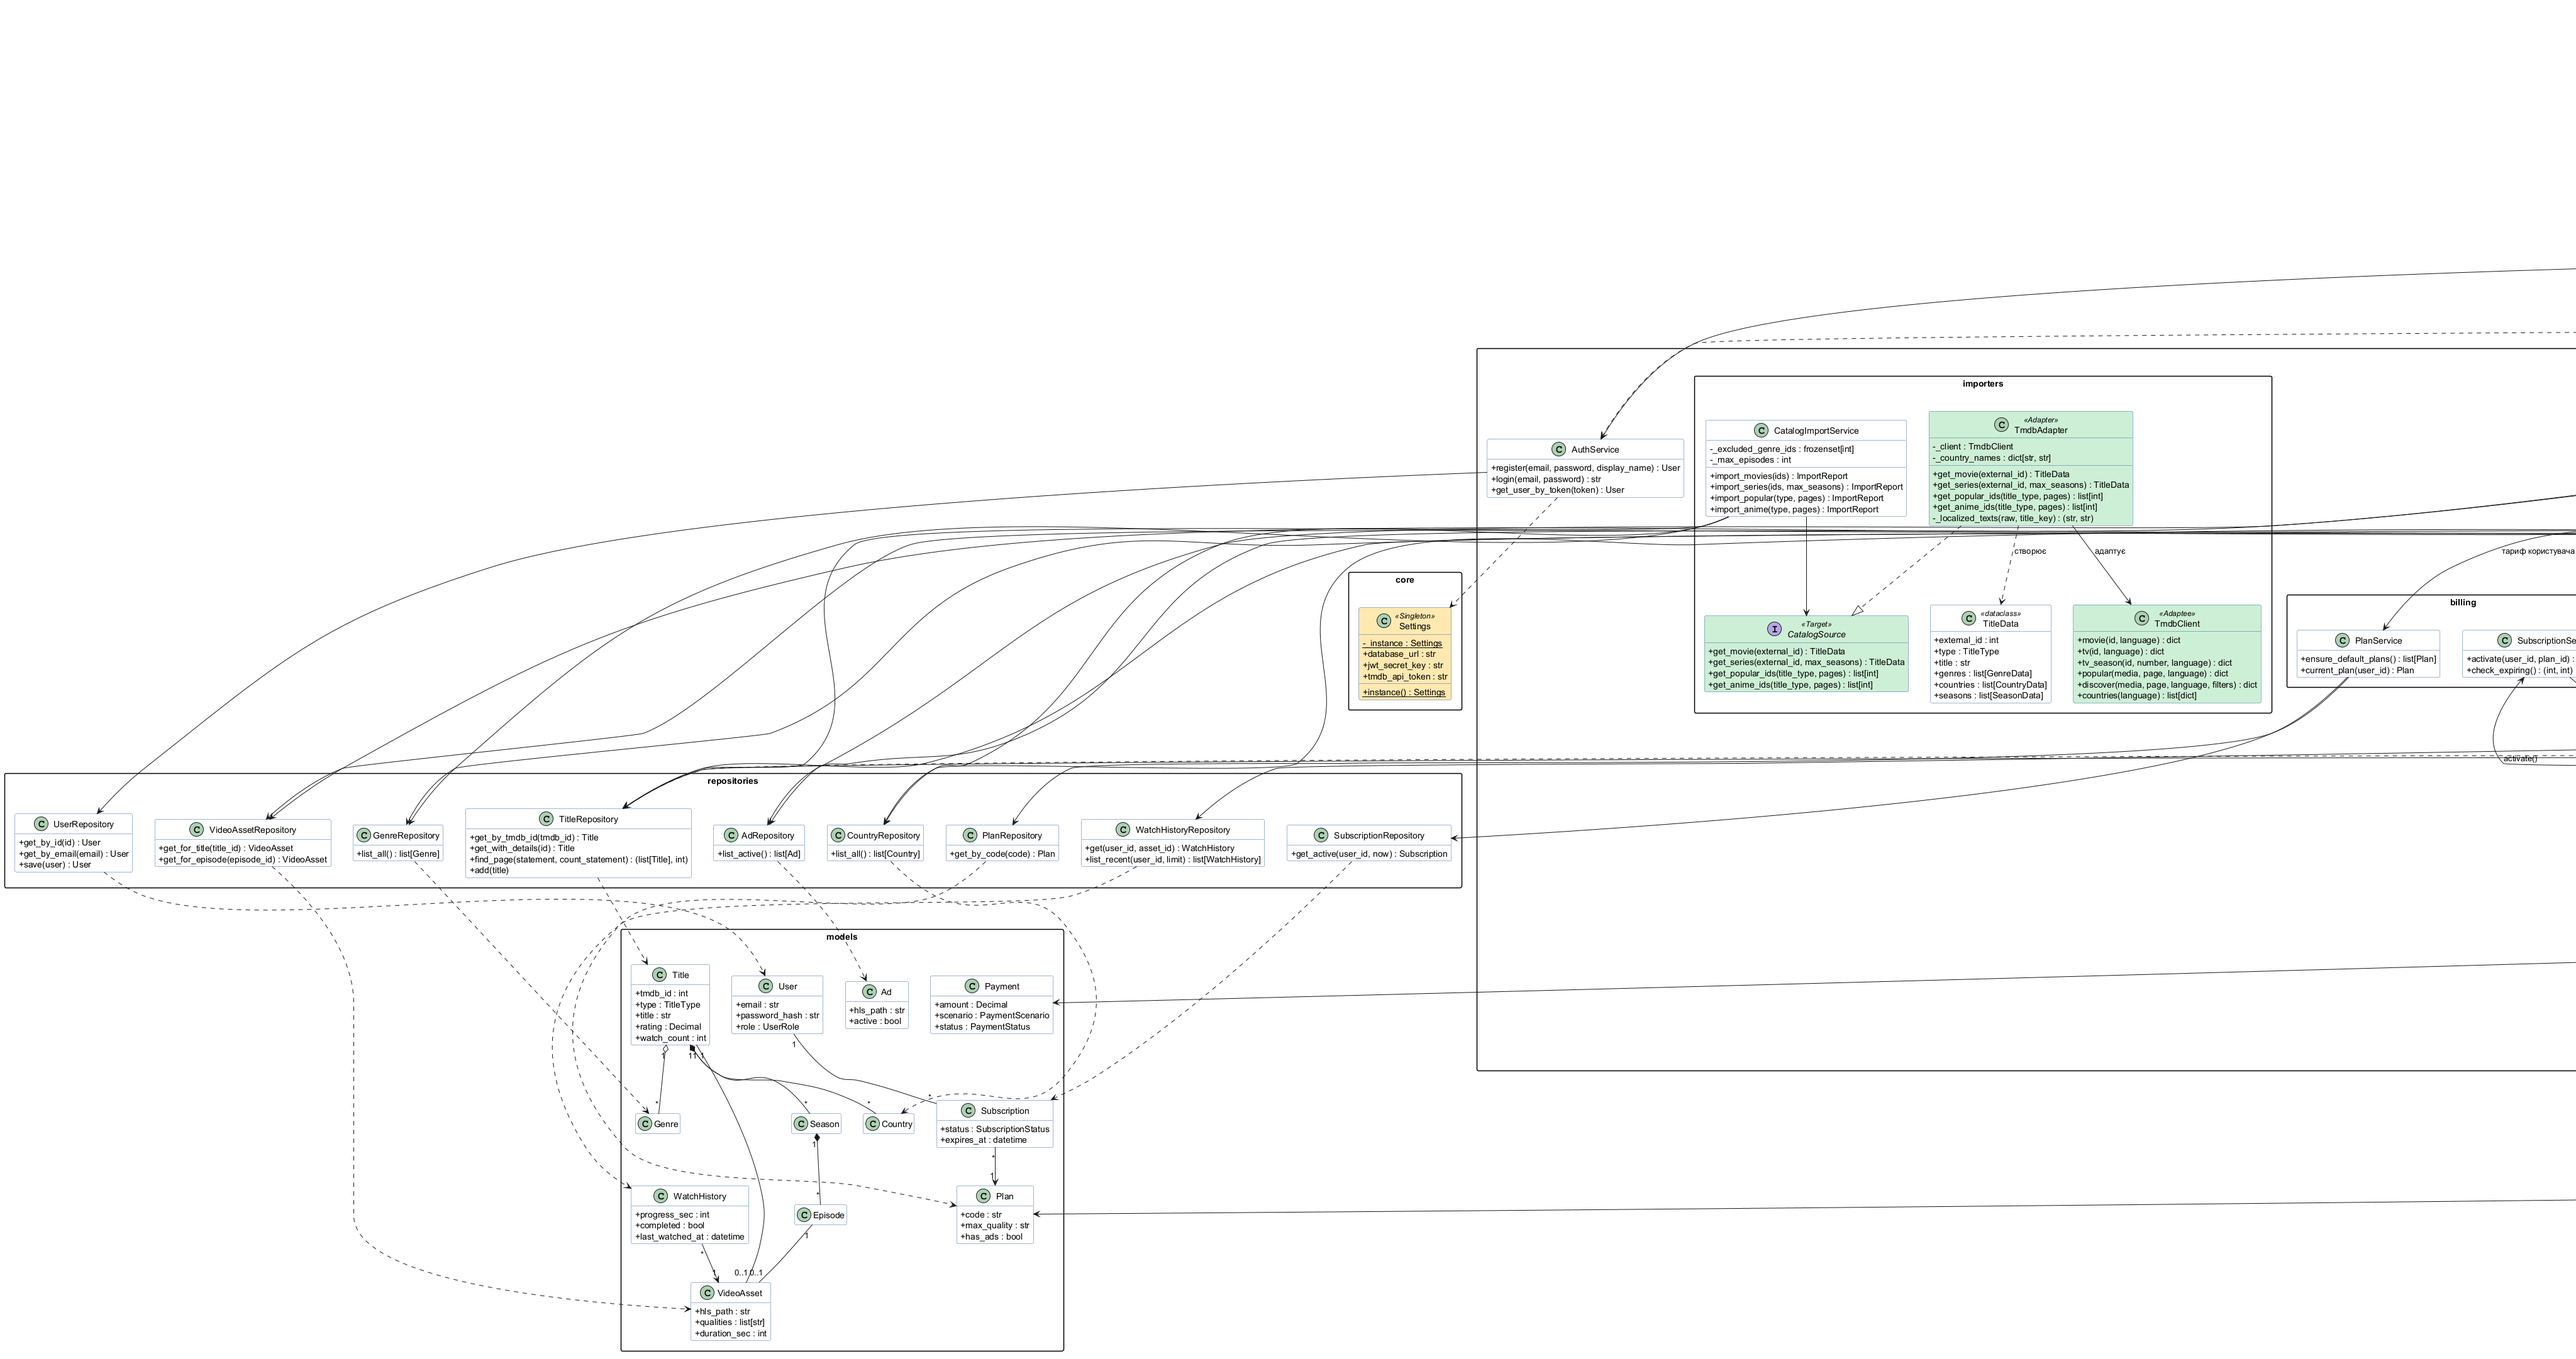
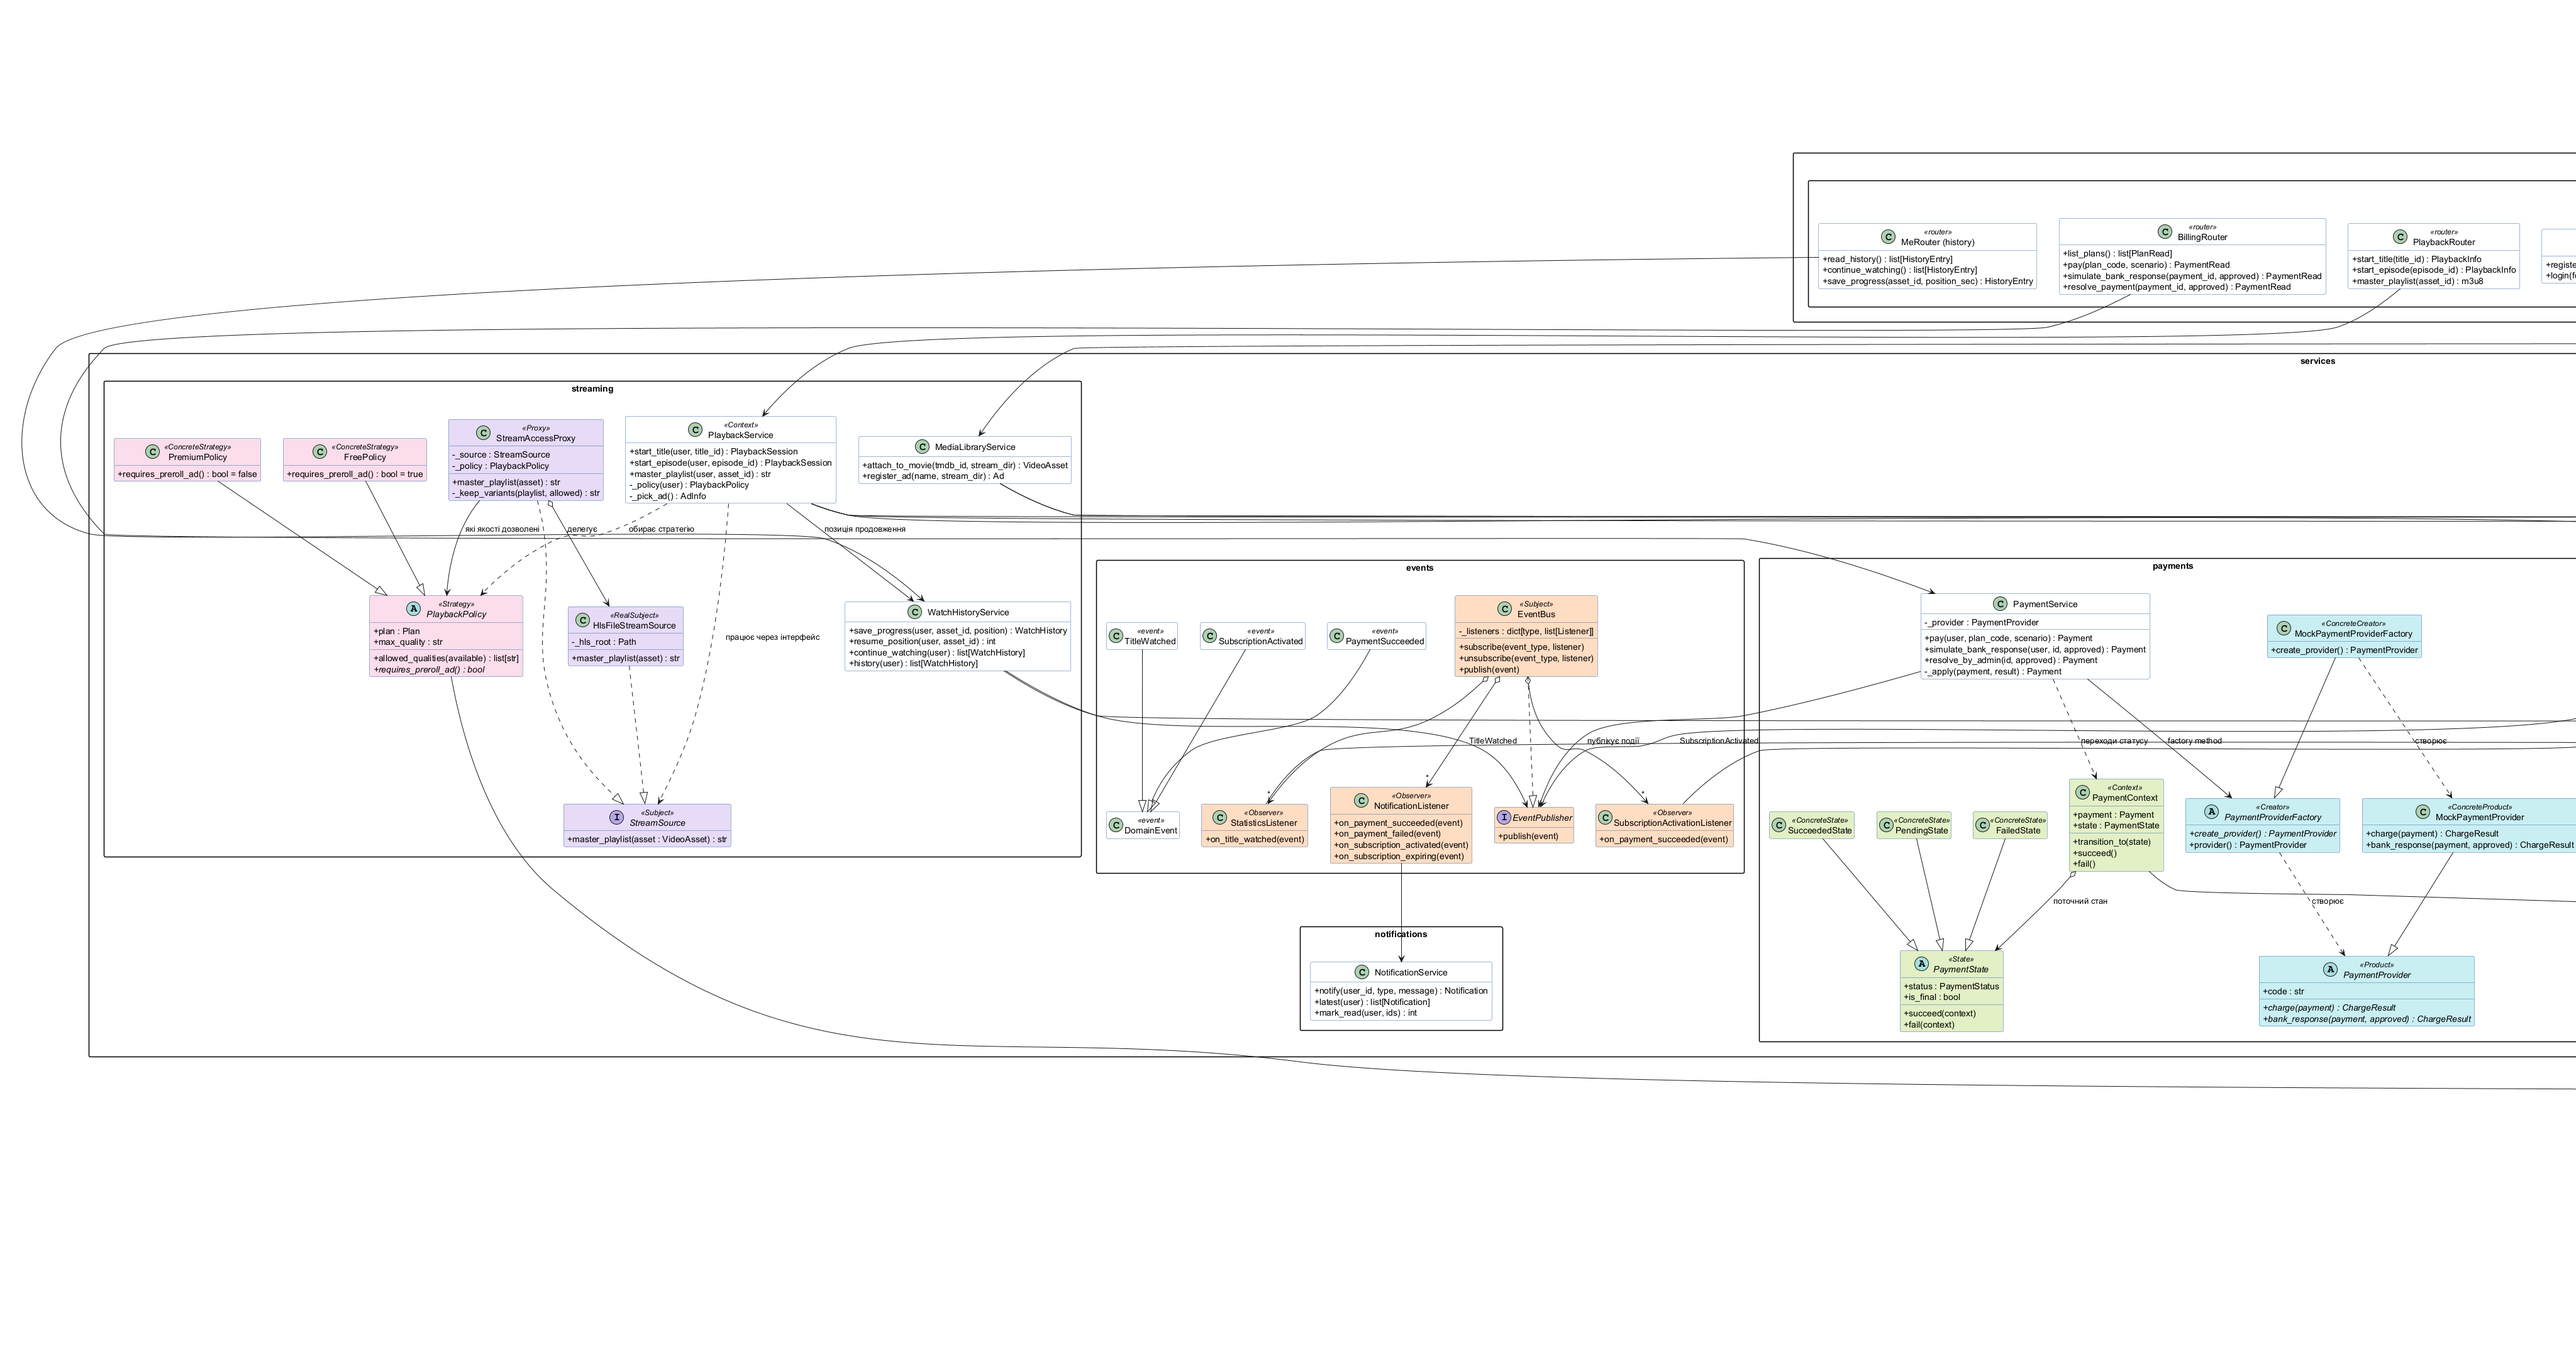
docs(uml): add recommendation strategies and admin services to class diagram
Also wraps three over-long lines in the backend (no behaviour change).

diff --git a/backend/app/api/v1/admin.py b/backend/app/api/v1/admin.py
@@ -212,7 +212,9 @@ def delete_episode(episode_id: int, _: AdminUser, catalog: CatalogAdmin):
 def _video_read(asset: VideoAsset) -> VideoAssetAdminRead:
     episode = asset.episode
     title = asset.title if episode is None else episode.season.title
-    label = None if episode is None else f"S{episode.season.number}E{episode.number}: {episode.name}"
+    label = None
+    if episode is not None:
+        label = f"S{episode.season.number}E{episode.number}: {episode.name}"
     return VideoAssetAdminRead(
         id=asset.id, hls_path=asset.hls_path, qualities=asset.qualities,
         duration_sec=asset.duration_sec, title_id=title.id, title=title.title,

diff --git a/backend/app/services/billing/plan_service.py b/backend/app/services/billing/plan_service.py
@@ -60,7 +60,9 @@ class PlanService:
     def all_plans(self) -> Sequence[Plan]:
         return self._plans.list_all()
 
-    def current_subscription(self, user_id: int, now: datetime | None = None) -> Subscription | None:
+    def current_subscription(
+        self, user_id: int, now: datetime | None = None
+    ) -> Subscription | None:
         return self._subscriptions.get_active(user_id, now or datetime.now(UTC))
 
     def current_plan(self, user_id: int, now: datetime | None = None) -> Plan:

diff --git a/backend/app/services/admin/accounts_admin.py b/backend/app/services/admin/accounts_admin.py
@@ -24,7 +24,9 @@ class AccountsAdminService:
         self._users = users
         self._plans = plans
 
-    def search_users(self, query: str | None, page: int, page_size: int) -> tuple[Sequence[User], int]:
+    def search_users(
+        self, query: str | None, page: int, page_size: int
+    ) -> tuple[Sequence[User], int]:
         return self._users.search(query, (page - 1) * page_size, page_size)
 
     def set_role(self, actor: User, user_id: int, role: UserRole) -> User:
